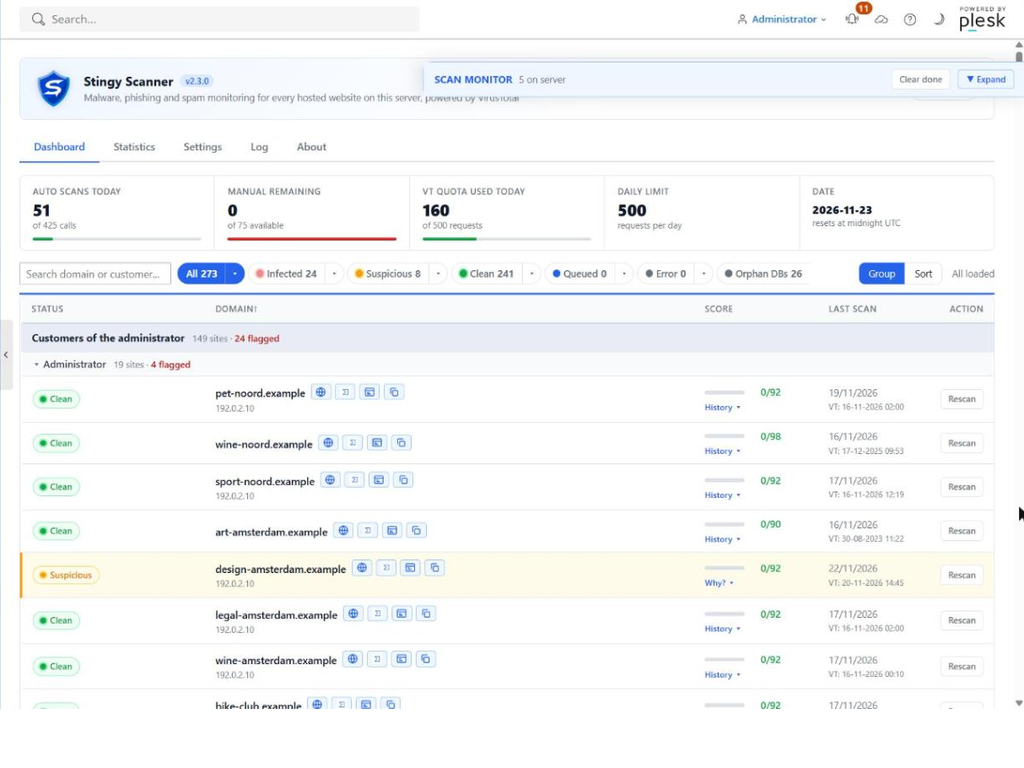
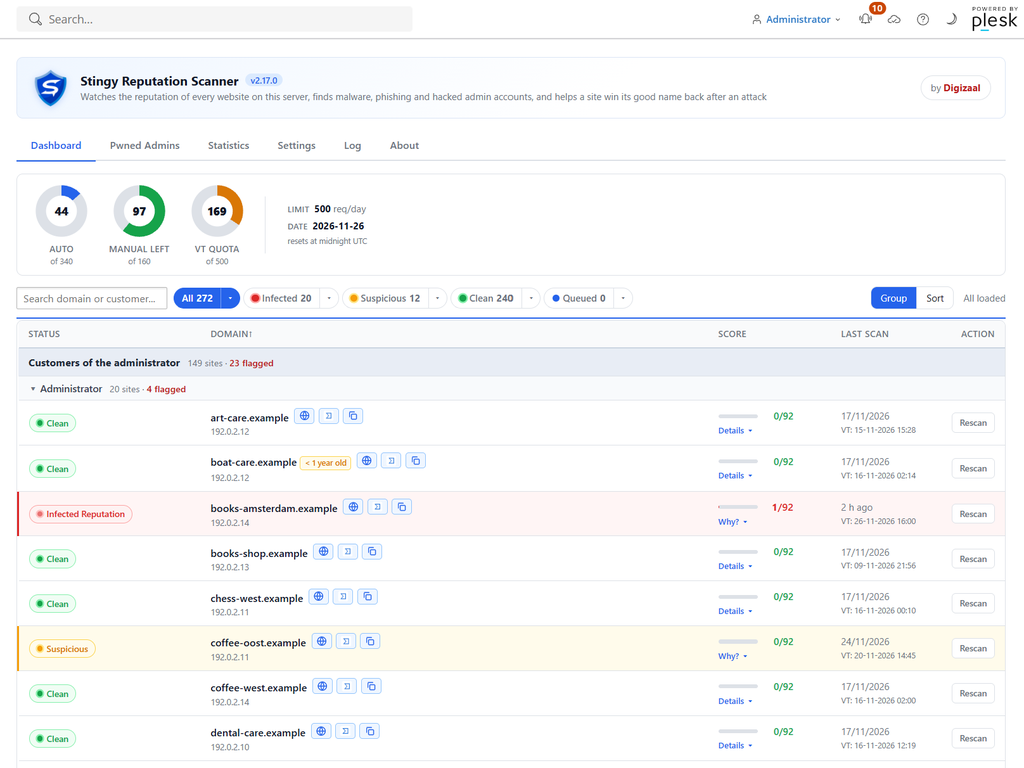
Root helper hardened (no root writes through links: backups written by the site user, results renamed into place, lock in /var/lib/stingyscan, rate limiter as psaadm; site code only as uid >= 1000); Linux only in meta.xml; demo script moved to tools/; sharp catalog screenshots; review explanation ab

diff --git a/plib/controllers/IndexController.php b/plib/controllers/IndexController.php
@@ -25,7 +25,8 @@ require_once $_vtLib . '/VtPwned.php';
 require_once $_vtLib . '/VtServerName.php';
 require_once $_vtLib . '/VtMailSender.php';
 require_once $_vtLib . '/VtAdminWatch.php';
-require_once $_vtLib . '/VtStats.php';
+require_once $_vtLib . '/VtEdition.php';
+if (!VtEdition::CATALOG) require_once $_vtLib . '/VtStats.php'; // not in the Plesk catalog edition
 
 /**
  * IndexController — Plesk extension controller (extends pm_Controller_Action for layout).
@@ -670,7 +671,9 @@ class IndexController extends pm_Controller_Action
                 ? (($r['infected'] ?? 0) ? $r['infected'] . ' infected file(s)' : 'no infected files') . ' in ' . ($r['files'] ?? 0) . ' files'
                 : ($r['message'] ?? $r['status'] ?? 'error')));
             $r['logged'] = true;
-            @file_put_contents(self::scanFile($scanner, $domain), json_encode($r, JSON_PRETTY_PRINT | JSON_UNESCAPED_SLASHES));
+            // The root helper writes this file (owned by root, mode 0644): replace it rather than write into it
+            $f = self::scanFile($scanner, $domain); $tmp = $f . '.' . bin2hex(random_bytes(6)) . '.tmp';
+            if (@file_put_contents($tmp, json_encode($r, JSON_PRETTY_PRINT | JSON_UNESCAPED_SLASHES)) !== false && !@rename($tmp, $f)) @unlink($tmp);
         }
         $this->respond(['result' => $r]);
     }
@@ -770,6 +773,7 @@ class IndexController extends pm_Controller_Action
 
     public function installUpdateAction(): void
     {
+        if (VtEdition::CATALOG) { $this->respond(['error' => 'Updates come from the Plesk Extensions Catalog']); return; }
         if (!$this->getRequest()->isPost()) { $this->respond(['error' => 'POST required']); return; }
         if ($this->role() !== 'admin') { $this->respond(['error' => 'Administrator only']); return; }
 
@@ -784,6 +788,7 @@ class IndexController extends pm_Controller_Action
 
     public function updateStatusAction(): void
     {
+        if (VtEdition::CATALOG) { $this->respond(['error' => 'Updates come from the Plesk Extensions Catalog']); return; }
         if ($this->role() !== 'admin') { $this->respond(['error' => 'Administrator only']); return; }
         try {
             $res = pm_ApiCli::callSbin('extension-update', ['status'], pm_ApiCli::RESULT_FULL);
@@ -798,6 +803,8 @@ class IndexController extends pm_Controller_Action
     {
         // Current version is always read fresh — never cached — so it updates immediately after an upgrade
         $current = $this->installedVersion();
+        // Plesk catalog edition: Plesk itself offers updates, so GitHub is never asked
+        if (VtEdition::CATALOG) { $this->respond(['current' => $current, 'update_available' => false, 'catalog' => true]); return; }
 
         // Only the GitHub API response is cached (avoid hitting the API on every page load)
         $cacheFile = VtDataDir::path('vt_update_check.json');
@@ -879,7 +886,7 @@ class IndexController extends pm_Controller_Action
         if ($this->role() === 'admin') $s['log_rotation'] = VtLogRotate::settings() + VtLogRotate::info();
         if ($this->role() === 'admin') $s['quarantine'] = self::quarantineInfo();
         if ($this->role() === 'admin') $s['pwned'] = $this->pwnedSummary(); // Settings → Breach data
-        if ($this->role() === 'admin') $s['stats'] = VtStats::localInfo();   // computed here; the collector is never asked
+        if ($this->role() === 'admin' && !VtEdition::CATALOG) $s['stats'] = VtStats::localInfo(); // computed here; the collector is never asked
         unset($s['stats_share']);
         if ($this->role() === 'admin') {
             $adm = $adm ?? new VtSettings('admin');
@@ -984,7 +991,7 @@ class IndexController extends pm_Controller_Action
 
         // Log rotation and quarantine: server-wide settings of the administrator
         // Installation statistics: only the server administrator may switch sharing on or off
-        if (isset($input['stats_share'])) {
+        if (isset($input['stats_share']) && !VtEdition::CATALOG) {
             if ($this->role() !== 'admin') { $this->respond(['error' => 'Only the server administrator can change installation statistics']); return; }
             $on = filter_var($input['stats_share'], FILTER_VALIDATE_BOOLEAN);
             if ($this->settings->getUserId() === 'admin') $save['stats_share'] = $on; // same file: saved below

diff --git a/plib/views/scripts/index/index.php b/plib/views/scripts/index/index.php
@@ -332,6 +332,7 @@ tr.vt-fs-row>td{background:var(--gray-bg);border-top:0;padding:10px 13px 12px}
 .vt-why-tbl{table-layout:fixed}
 .vt-why-tbl th:nth-child(1){width:22%}.vt-why-tbl th:nth-child(2){width:38%}
 .vt-why-tbl td:last-child{white-space:normal;color:inherit}
+.vt-why-tbl .vt-why-tip{white-space:normal;overflow-wrap:anywhere}
 .vt-why-tbl code{word-break:break-all}
 .vt-tbl-wrap tbody tr[data-domain]:has(.vt-why-btn):not(.vt-fs-row){cursor:pointer}
 .vt-fs-head{display:flex;align-items:center;gap:8px;flex-wrap:wrap}
@@ -414,6 +415,8 @@ a.vt-row-btn{text-decoration:none;display:inline-block;margin-right:4px}
 .vt-why-btn{all:unset;cursor:pointer;display:flex;flex-direction:column;gap:2px;padding:3px 6px;margin:-3px -6px;border-radius:6px}
 .vt-why-btn:hover,.vt-why-btn.open{background:var(--gray-bg)}
 .vt-why-lbl{font-size:10.5px;color:#2563eb;font-weight:600}
+.vt-why-howto{font-size:12.5px;line-height:1.55;color:#374151;background:#f8fafc;border:1px solid #e5e7eb;border-radius:6px;padding:8px 11px;margin:8px 0}
+.vt-why-howto code{font-size:12px}
 .vt-why-note{background:#fffbeb;border:1px solid #fcd34d;color:#92400e;border-radius:6px;padding:8px 11px;font-size:12.5px;line-height:1.5;margin:8px 0}
 .vt-why-steps{margin:10px 0 4px 18px;padding:0;font-size:12.5px;line-height:1.55}
 .vt-why-steps li{margin-bottom:5px}
@@ -3485,6 +3488,10 @@ function vtWhyRowHTML(domain,st){
   if(list.length||avast.products?.length||gsb.enabled){
     // First the vendors of VirusTotal, below them the extra services switched on in Settings
     const extra=vtGsbRow(domain)+vtAvastRow(domain), tot=d.total?' of '+d.total:'';
+    h+='<div class="vt-why-howto"><strong>How asking for a review works:</strong> click <em>request a review ↗</em>. The vendor\'s form opens in a new tab '
+      +'and the site address (<code>https://'+vtEsc(domain)+'/</code>) is <strong>copied to your clipboard</strong>: paste it into the form. '
+      +'Stingy Scanner <strong>remembers every request</strong>: the vendor gets <em>✓ Requested</em> with the date and who asked, the count at the top goes up, '
+      +'and it is added to the site\'s history, for everyone who manages this site. Turned down? Click <em>denied</em> (with the reason). Clicked by mistake? <em>undo</em>.</div>';
     h+='<table class="vt-fs-tbl vt-why-tbl"><thead><tr><th>Vendor</th><th>Verdict</th><th>Ask for a review</th></tr></thead><tbody>'
       +'<tr class="vt-why-grp"><td colspan="3">VirusTotal vendors <span>'+(list.length?list.length+tot+' flag this site':'none'+tot+' flags this site')+'</span></td></tr>'
       +(list.length?list.map(([v,r])=>'<tr'+(reviews[domain]?.[v]?' class="asked"':'')+'><td>'+vtEsc(v)+'</td><td>'+vtEsc(r)+'</td><td>'+vtFpLink(v,domain)+'</td></tr>').join('')

diff --git a/tools/seed_demo_history.php b/tools/seed_demo_history.php
@@ -9,10 +9,16 @@
  *   php seed_demo_history.php --customers     also every customer's history
  *   php seed_demo_history.php --remove        remove all demo days again (server, resellers, customers)
  *
- * Run as psaadm with Plesk's PHP:
- *   sudo -u psaadm /usr/local/psa/admin/bin/php .../scripts/seed_demo_history.php [options]
+ * Not part of the extension package (the Plesk catalog asks for no unused files): copy it to the
+ * server and run it as psaadm with Plesk's PHP. It uses the installed extension's library:
+ *   sudo -u psaadm /usr/local/psa/admin/bin/php seed_demo_history.php [options]
  */
-$plibDir = dirname(__DIR__) . '/library';
+$plibDir = getenv('STINGYSCAN_PLIB') ?: '/usr/local/psa/admin/plib/modules/stingyscan/library';
+if (!is_file($plibDir . '/VtDataDir.php')) {
+    fwrite(STDERR, "Stingy Scanner is not installed here (no $plibDir). Set STINGYSCAN_PLIB to its library folder.
+");
+    exit(1);
+}
 require_once $plibDir . '/VtDataDir.php';
 require_once $plibDir . '/VtSettings.php';
 require_once $plibDir . '/VtCache.php';

diff --git a/plib/scripts/post-install.php b/plib/scripts/post-install.php
@@ -34,8 +34,10 @@ if ($oldData !== $newData && is_dir($oldData) && !file_exists($marker)) {
     echo "Stingy Scanner: copied $n data files from VT Site Scanner.\n";
 }
 
-// Auto-remove VT Site Scanner (virustotal-extension) if still installed
-$installed = shell_exec('plesk bin extension --list 2>/dev/null') ?? '';
+// Auto-remove VT Site Scanner (virustotal-extension) if still installed. Not in the Plesk catalog edition:
+// an extension from the catalog never removes another extension; the administrator does that.
+require_once dirname(__DIR__) . '/library/VtEdition.php';
+$installed = VtEdition::CATALOG ? '' : (shell_exec('plesk bin extension --list 2>/dev/null') ?? '');
 if (str_contains($installed, 'virustotal-extension')) {
     exec('plesk bin extension --uninstall virustotal-extension 2>&1', $out, $rc);
     if ($rc === 0) {

diff --git a/plib/library/VtEdition.php b/plib/library/VtEdition.php
@@ -1,0 +1,15 @@
+<?php
+/**
+ * VtEdition: which package this is.
+ *
+ * CATALOG is false in the package published on GitHub. `bash build.sh catalog` sets it to true for the
+ * edition submitted to the Plesk Extensions Catalog. That edition:
+ *   - has no updater of its own: Plesk updates catalog extensions (no GitHub check, no sbin/extension-update);
+ *   - has no installation statistics ("Talk to mama"): VtStats is not in the package, nothing is sent to Digizaal;
+ *   - does not uninstall the old VT Site Scanner (virustotal-extension) by itself.
+ * Everything else is the same code.
+ */
+final class VtEdition
+{
+    const CATALOG = false;
+}

diff --git a/plib/scripts/manual_scan.php b/plib/scripts/manual_scan.php
@@ -27,6 +27,7 @@ require_once $plibDir . '/VtLogRotate.php';
 // this run does, so a slow or unreachable collector never delays or stops a scan (see VtStats)
 register_shutdown_function(function () use ($plibDir) {
     try {
+        if (!is_file($plibDir . '/VtStats.php')) return; // not in the Plesk catalog edition
         require_once $plibDir . '/VtStats.php';
         VtStats::checkIn();
     } catch (\Throwable $e) {}

diff --git a/README.md b/README.md
@@ -366,10 +366,11 @@ The **Statistics** tab shows how infections develop, per day, over the last **1,
 
 The totals are saved once a day: by the nightly scan (for the server, every reseller and every customer), and whenever someone opens the dashboard. The history is kept for about a year in the data folder (`vt_history.json` for the server, `vt_history_r_<login>.json` per reseller, `vt_history_c_<login>.json` per customer). Demo data is only added when you run the demo script below.
 
-To see what the graph looks like before there is any history, you can fill the last 92 days with made-up example data (clearly marked as *demo*, shaded in the graph, and replaced by real totals day by day):
+To see what the graph looks like before there is any history, you can fill the last 92 days with made-up example data (clearly marked as *demo*, shaded in the graph, and replaced by real totals day by day). The script is not part of the extension package; it is in [`tools/`](tools/seed_demo_history.php) in this repository. Copy it to the server and run it there:
 
 ```bash
-sudo -u psaadm /usr/local/psa/admin/bin/php /usr/local/psa/admin/plib/modules/stingyscan/scripts/seed_demo_history.php
+cd /tmp && curl -sO https://raw.githubusercontent.com/dzaal/StingyScan-for-Plesk/main/tools/seed_demo_history.php
+sudo -u psaadm /usr/local/psa/admin/bin/php seed_demo_history.php
 ```
 
 Options: `--resellers` also fills every reseller's history, `--customers` every customer's. The demo figures are scaled to the number of sites (never more infected sites than there are) and end at today's real totals. `--remove` deletes all demo days again, everywhere. Resellers and customers see the same *Demo data* note and shading, so they can tell it's example data.
@@ -405,7 +406,7 @@ The status in Stingy Scanner comes from **VirusTotal**, not from the files on yo
 Click a flagged site's row, or its **score** (for example *8/92 · Why?*). A second line opens with:
 
 - **The vendors that flag the site** and what they call it (for example *Fortinet: malware*).
-- **A review link per vendor**: a form or e-mail address where you can report that the site is clean. The contacts come from [VirusTotal's list of vendor contacts](https://docs.virustotal.com/docs/false-positive-contacts); where a vendor has its own form for websites, that form is used instead (for example [alphaMountain](https://www.alphamountain.ai/false-positive/) and [Gridinsoft](https://portal.gridinsoft.com/false-positive)). For a vendor that is not in the list, the link goes to VirusTotal's list.
+- **A review link per vendor**: a form or e-mail address where you can report that the site is clean. The contacts come from [VirusTotal's list of vendor contacts](https://docs.virustotal.com/docs/false-positive-contacts); where a vendor has its own form for websites, that form is used instead (for example [alphaMountain](https://www.alphamountain.ai/false-positive/) and [Gridinsoft](https://portal.gridinsoft.com/false-positive)). For a vendor that is not in the list, the link goes to VirusTotal's list. Opening a review link **copies the site address to your clipboard**, so you can paste it straight into the vendor's form; a note above the table explains this.
 - **Which vendors you already asked.** A click on a review link is remembered per site and per vendor, with the date and time and who clicked (*✓ Requested 21-11-2026 (22:58) by admin · denied · undo*). When a vendor turns the request down (for example because the site was added to its list less than a day ago), click **denied** and optionally give the reason: the note disappears so you can ask again later, and the history keeps *Review denied* with the reason. *Undo* is for a click made by mistake. It is saved on the server (`vt_reviews.json`), so everyone who manages the site sees it. The header shows at how many of the flagging vendors a review was requested.
 - **The history of the site**, newest first: when it was first detected (score and vendors), when each vendor started or stopped flagging it, its status changes, and every review request: which vendor, via website form or by e-mail (and to which address), and by whom. Clean sites that have a history get a **History** button on their score. Saved in `vt_sitelog.json`; the first detection of each site is filled in once from the scan logs.
 - **The steps to get delisted:**

diff --git a/CHANGELOG.md b/CHANGELOG.md
@@ -3,6 +3,13 @@
 Every version of Stingy Scanner for Plesk (called StingyScan in 2.0–2.1.1, VT Site Scanner until 1.35), newest first.
 Install or update: see the [latest release](https://github.com/dzaal/StingyScan-for-Plesk/releases/latest).
 
+## Unreleased
+- `meta.xml` declares **Linux only** (`<os>unix</os>`); the catalog description says Plesk for Windows is not supported.
+- **Security (root helper `site-scan`):** root no longer writes anywhere a less trusted user could have put a link. Database backups are written into the private folder by the site user itself (root's database password is not passed on). Scan results are written as new files and renamed into place, the scan lock moved to the root-only `/var/lib/stingyscan`, and the request rate limiter runs as the panel user. WP-CLI and file actions only run as a real site user (uid 1000 or higher), never as a system account such as `psaadm` or `nginx`. A Laravel `.env` that is a link is skipped. The helper's description lists every command and these rules.
+- Vendor table (*Why?*): a short explanation above it: *request a review* opens the vendor's form and copies the site address to the clipboard, and every request is remembered for the site (date, who, history), with *denied* and *undo*.
+- **Plesk catalog edition:** `bash build.sh catalog` builds `stingyscan-catalog-<version>.zip` from the same code (`VtEdition::CATALOG`): no updater of its own (Plesk updates catalog extensions; no GitHub check, no `sbin/extension-update`), no installation statistics (`VtStats` is not in the package), and it does not uninstall the old VT Site Scanner by itself.
+- The demo-data script for the trend graph is no longer in the extension package: it moved to [`tools/seed_demo_history.php`](tools/seed_demo_history.php) in the repository. Copy it to the server to use it (see the README); it uses the installed extension's library.
+
 ## 2.17.0 — 2026-11-26
 - **Installation statistics are now off by default (opt-in).** Nothing is sent to Digizaal until the server administrator ticks *Settings → Maintenance → Talk to mama: Share installation statistics* and saves. This also applies after an upgrade: a server where the setting was never saved explicitly stops sending. A server where the administrator ticked it keeps sharing.
 - **Privacy policy** for the extension: [PRIVACY.md](PRIVACY.md), also online at <https://www.digizaal.nl/stingy-scanner/privacy/>. It lists what stays on the server, what goes to which service, and what the optional statistics contain, why, where they are stored and for how long.

diff --git a/DESCRIPTION.md b/DESCRIPTION.md
@@ -17,4 +17,6 @@ Stingy Scanner keeps an eye on the reputation of every website on your Plesk ser
 - Customers and resellers see their own sites; the administrator sees everything.
 - E-mail notifications, a dashboard widget, statistics and orphan-database cleanup.
 
+**Requirements:** Plesk Obsidian 18.0 or later on **Linux** (Plesk for Windows is not supported). A free VirusTotal API key.
+
 Free to use on any server you manage; the source code is public (see the license). Nothing is sent to Digizaal unless you switch on the optional installation statistics. Built by [Digizaal](https://www.digizaal.nl/stingy-scanner/), an Amsterdam web agency hosting 600+ websites on Plesk.
